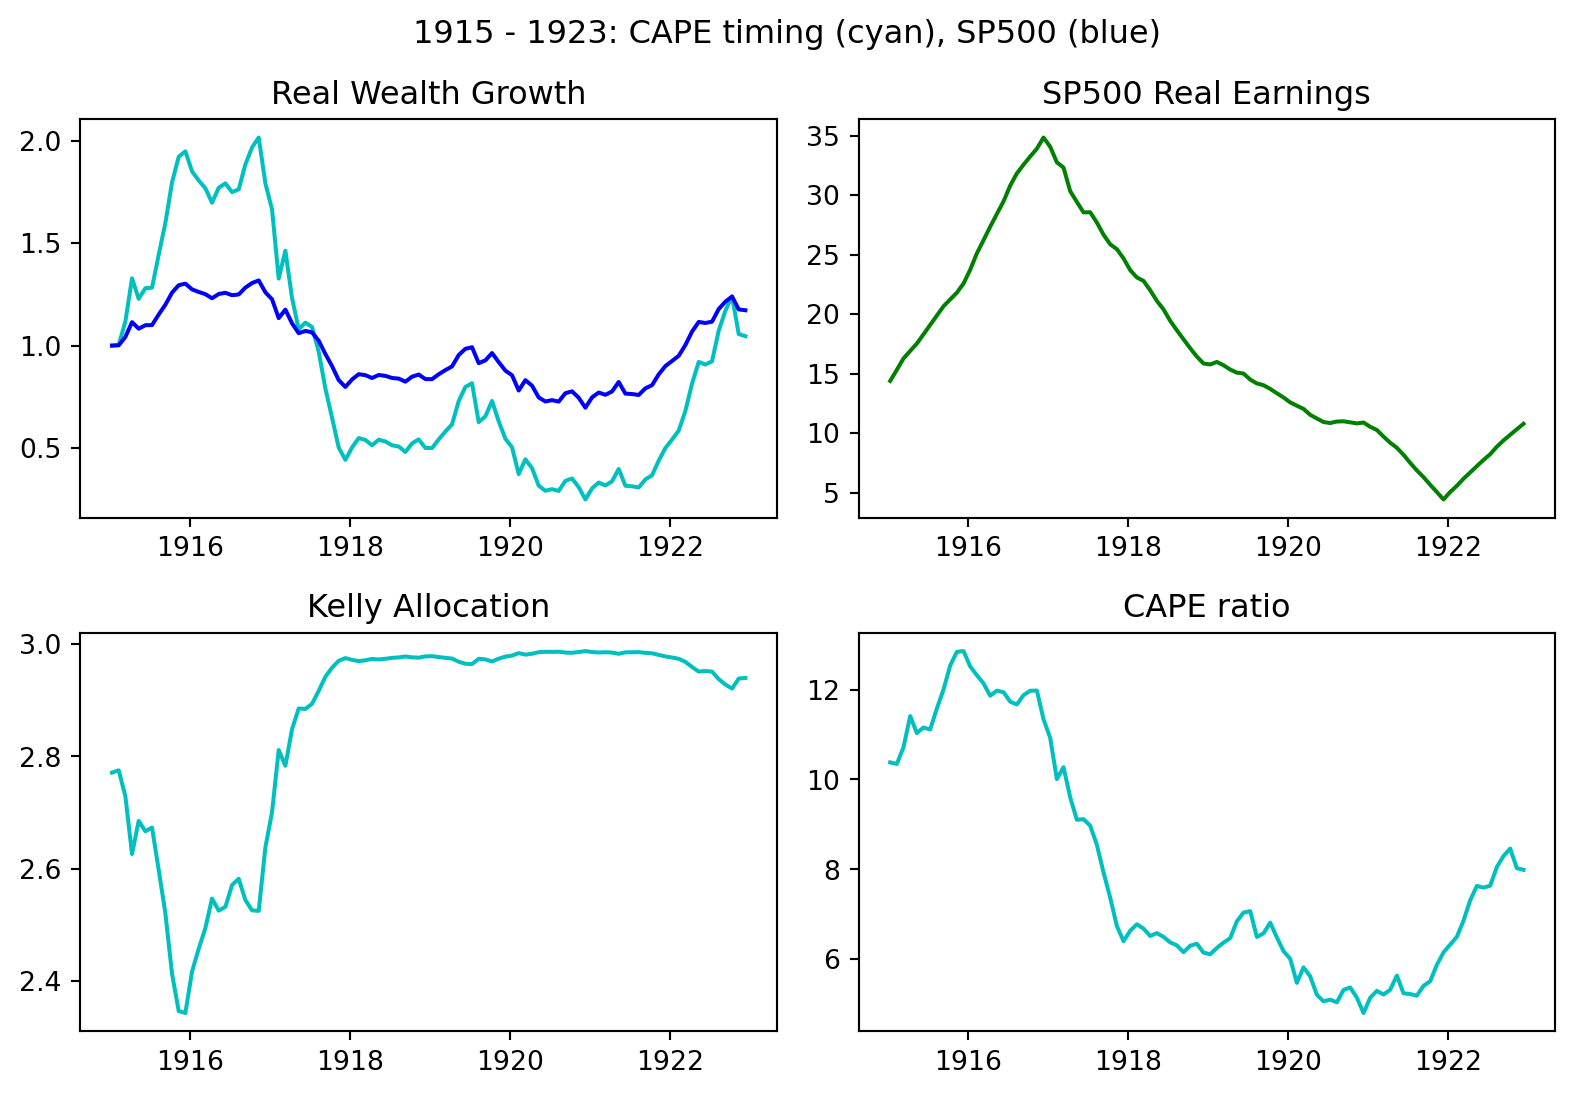
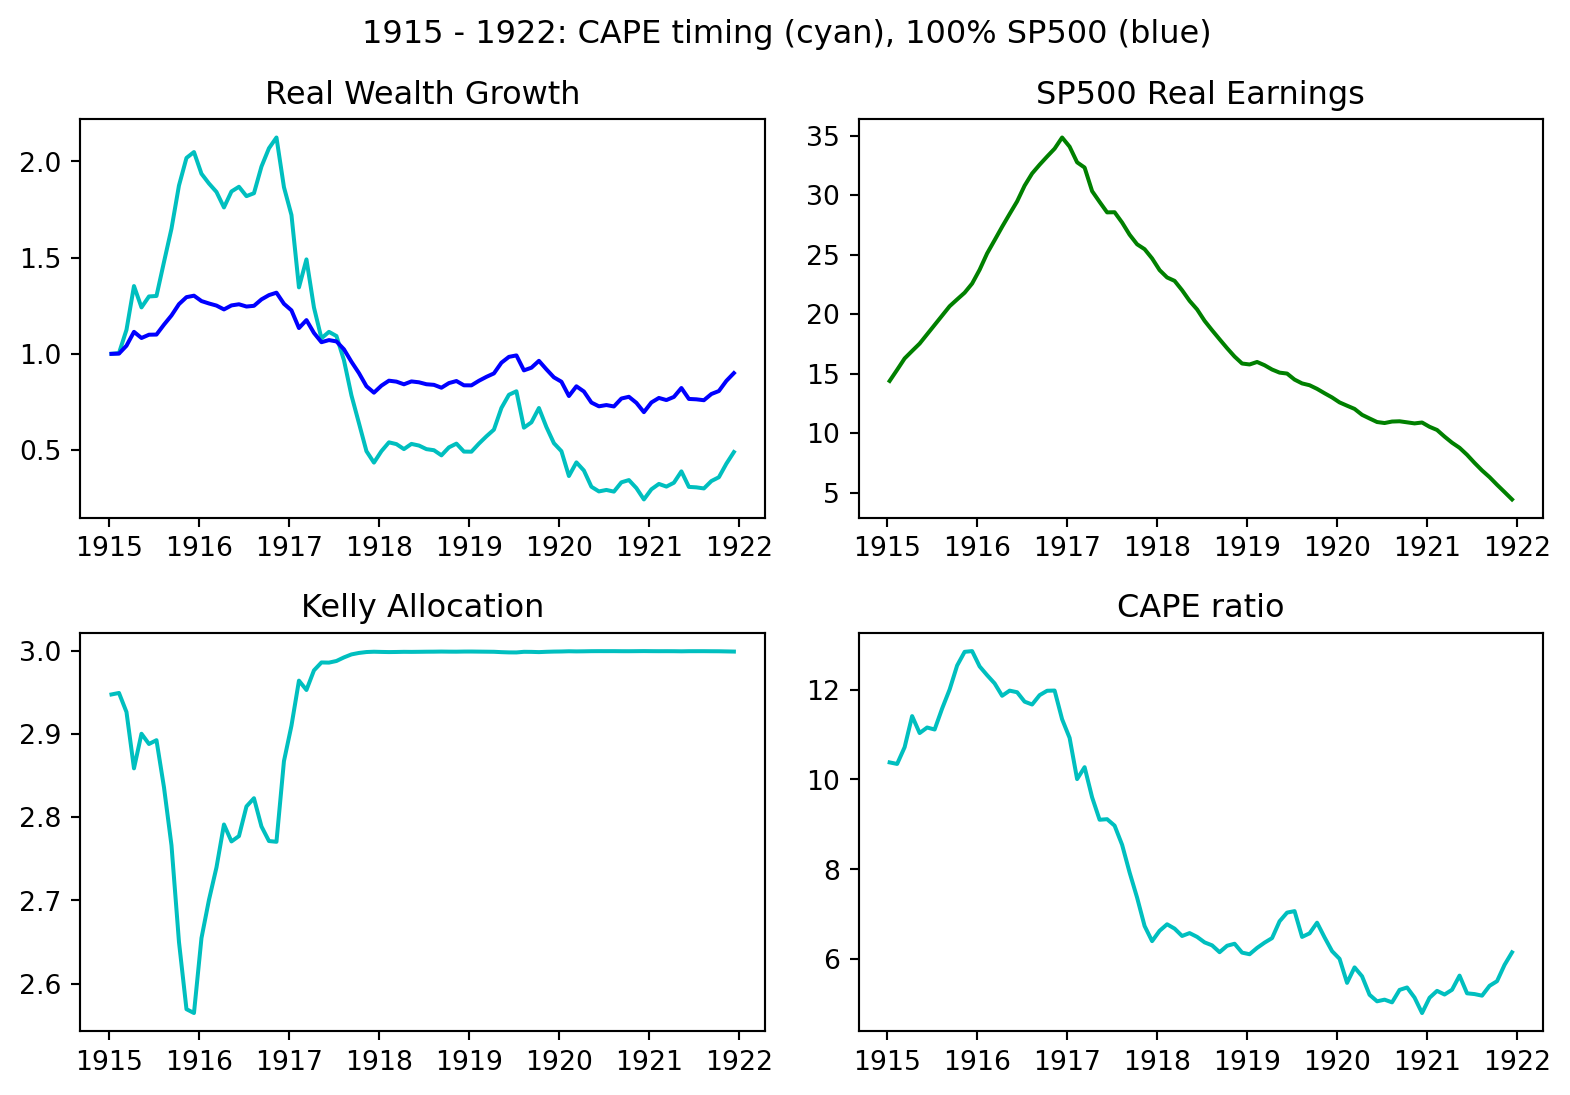
Update website

diff --git a/docs/KellyOptimalMarketCycles.html b/docs/KellyOptimalMarketCycles.html
@@ -174,7 +174,7 @@ pre > code.sourceCode > span > a:first-child::before { text-decoration: underlin
   <ul class="collapse">
   <li><a href="#pe-strategy-superior-vs-cape-not-so-fast" id="toc-pe-strategy-superior-vs-cape-not-so-fast" class="nav-link" data-scroll-target="#pe-strategy-superior-vs-cape-not-so-fast">PE Strategy Superior vs CAPE? Not so fast…</a></li>
   </ul></li>
-  <li><a href="#sec-finalanalysis" id="toc-sec-finalanalysis" class="nav-link" data-scroll-target="#sec-finalanalysis">Final Analysis of Performance</a></li>
+  <li><a href="#sec-finalanalysis" id="toc-sec-finalanalysis" class="nav-link" data-scroll-target="#sec-finalanalysis">Final Analysis of Performance – Periods of Failure</a></li>
   </ul>
 </nav>
     </div>
@@ -445,7 +445,7 @@ dX_t &amp; = \pi_{NN}(t,y_t) X_t \bigg(y_t dt +  \frac{dD_t}{D_t} + \frac{d(1/y_
 <span id="cb3-47"><a href="#cb3-47" aria-hidden="true" tabindex="-1"></a>    plt.show()<span class="op">;</span></span></code><button title="Copy to Clipboard" class="code-copy-button"><i class="bi"></i></button></pre></div>
 </details>
 <div class="cell-output cell-output-display">
-<p><img src="KellyOptimalMarketCycles_files/figure-html/cell-4-output-1.png" width="780" height="516"></p>
+<p><img src="KellyOptimalMarketCycles_files/figure-html/cell-4-output-1.png" width="792" height="516"></p>
 </div>
 </div>
 <p>We see that at higher PE ratios, the Kelly optimal strategy decides to allocate less to the index, while at high PE ratios, the Kelly optimal strategy has a leveraged allocation to the index which is intuitive given the model dynamics which models in mean reversion of PE ratios.</p>
@@ -766,14 +766,14 @@ dX_t &amp; = \pi_t X_t\bigg(y_t dt + \frac{dD_t}{D_t} + \frac{d(1/y_t)}{1/y_t} \
 </details>
 <div class="cell-output cell-output-stdout">
 <pre><code>             Modified Sharpe  Mean Return  Volatility
-PE Timing           0.542872     0.158124    0.291273
-CAPE timing         0.493691     0.149018    0.301844
+PE Timing           0.530488     0.158237    0.298286
+CAPE timing         0.477708     0.147098    0.307924
 SP500               0.547833     0.077775    0.141969</code></pre>
 </div>
 </div>
 <section id="pe-strategy-superior-vs-cape-not-so-fast" class="level2">
 <h2 class="anchored" data-anchor-id="pe-strategy-superior-vs-cape-not-so-fast">PE Strategy Superior vs CAPE? Not so fast…</h2>
-<p>One might look and see that the Kelly strategy that made decisions vs PE outperformed that based on CAPE. This seemed surprising in that PE should be understated and overstated in certain times.</p>
+<p>One might look and see that the Kelly strategy that made decisions using the PE ratio outperformed that based on CAPE. This seemed surprising in that PE should be understated and overstated in certain times.</p>
 <p>What happened? Well, if we look at the data the PE ratio might be “looking into the future”. It actually isn’t because the decision made at time <span class="math inline">\(t\)</span> is based on the realized earnings as of time <span class="math inline">\(t\)</span>. However, the problem is that investors actually don’t know the realized earnings at time <span class="math inline">\(t\)</span> due to the reporting cycle of companies. A hypothetical person with full insider information knows the exact earnings at time <span class="math inline">\(t\)</span>. However, it is uncertain if real investors actually have this information.</p>
 <p>So actually, what if all an investor has is access to the 1 year trailing earnings starting with the realized earnings 3 months ago? Then PE for this investor is estimated from these trailing earnings. Will the PE timing model then outperform that of CAPE?</p>
 <p>Let’s see how it does:</p>
@@ -898,20 +898,21 @@ SP500               0.547833     0.077775    0.141969</code></pre>
 </details>
 <div class="cell-output cell-output-stdout">
 <pre><code>                        Modified Sharpe  Mean Return  Volatility
-PE 1yr trailing Timing         0.542872     0.158124    0.291273
-CAPE timing                    0.493691     0.149018    0.301844
+PE 1yr trailing Timing         0.530488     0.158237    0.298286
+CAPE timing                    0.477708     0.147098    0.307924
 SP500                          0.547833     0.077775    0.141969</code></pre>
 </div>
 </div>
 </section>
 </section>
 <section id="sec-finalanalysis" class="level1">
-<h1>Final Analysis of Performance</h1>
+<h1>Final Analysis of Performance – Periods of Failure</h1>
 <p>Interestingly, we see that this model alone has worse performance than the SP500. The performance of this portfolio was completely due to leverage and the SP500 offered better risk adjusted returns.</p>
 <p>So why did the model fail? Let’s examine a few interesting details:</p>
 <ol type="1">
-<li><p>The model was trained to be optimal on an OU process for earnings yield and a GBM for real earnings. If the true dynamics are not adequately captured by this model, then the Kelly portfolio for this fake model will not perform adequately.</p></li>
-<li><p>The model exhibited outperformance vs the 2x levered SP500 until around 1990 (see plot below). Substantial changes have happened in this period in terms of accounting policies which might make modern CAPEs and PEs seem artificially high compared to their past values, dividend payout policies which can distort data for CAPE and PE, and a rise in corporations which emphasize intangible value and so-called “investing through the balance sheet” meaning that true profitability can be understated. Another part of the change since 1990 has been increased corporate margins causing real earnings growth to exceed its historical average. One might wonder what caused this change– is it lasting or potentially subject to mean reversion?</p></li>
+<li><p>The model was trained to be optimal on an OU process for earnings yield and a GBM for real earnings. If the true dynamics are not adequately captured by this model, then the Kelly portfolio for this fake model will not perform adequately. Moreover, if past parameters differ than those in the future (i.e.&nbsp;if there is a permanently higher valuation demanded by the market for instance), the model is not optimal for this setting.</p></li>
+<li><p>If the data for earnings does not accurately represent the true earnings power of the SP500 (i.e.&nbsp;overstated or understated) then the model may become too optimistic or too pessimistic at the wrong times. This is especially true when valuations look cheap or expensive for a reason! If the optical valuation does not agree with true valuation, then the model will perform poorly as it allocates based on CAPE.</p></li>
+<li><p>The model exhibited outperformance vs the 2x levered SP500 until around 1990 (see plot below). Substantial changes have happened in this period including: new accounting policies which might make modern CAPEs and PEs seem artificially high compared to their past values, dividend payout policies which can distort data for CAPE and PE, and a rise in corporations which emphasize intangible value and so-called “investing through the balance sheet” meaning that true profitability can be understated. Another part of the change since 1990 has been increased corporate margins causing real earnings growth to exceed its historical average. One might wonder what caused this change– is it lasting or potentially subject to mean reversion?</p></li>
 </ol>
 <div class="cell" data-execution_count="13">
 <details>
@@ -923,9 +924,9 @@ SP500                          0.547833     0.077775    0.141969</code></pre>
 <span id="cb15-5"><a href="#cb15-5" aria-hidden="true" tabindex="-1"></a></span>
 <span id="cb15-6"><a href="#cb15-6" aria-hidden="true" tabindex="-1"></a>    </span>
 <span id="cb15-7"><a href="#cb15-7" aria-hidden="true" tabindex="-1"></a>    startyear <span class="op">=</span> <span class="dv">1990</span></span>
-<span id="cb15-8"><a href="#cb15-8" aria-hidden="true" tabindex="-1"></a>    endyear <span class="op">=</span> <span class="dv">2020</span></span>
+<span id="cb15-8"><a href="#cb15-8" aria-hidden="true" tabindex="-1"></a>    endyear <span class="op">=</span> <span class="dv">2021</span></span>
 <span id="cb15-9"><a href="#cb15-9" aria-hidden="true" tabindex="-1"></a>    index_start <span class="op">=</span> <span class="bu">int</span>((startyear<span class="op">-</span><span class="dv">1871</span>)<span class="op">/</span>dt)</span>
-<span id="cb15-10"><a href="#cb15-10" aria-hidden="true" tabindex="-1"></a>    index_end <span class="op">=</span> <span class="bu">int</span>((endyear<span class="op">-</span><span class="dv">1871</span>)<span class="op">/</span>dt)</span>
+<span id="cb15-10"><a href="#cb15-10" aria-hidden="true" tabindex="-1"></a>    index_end <span class="op">=</span> <span class="bu">int</span>((endyear<span class="op">-</span><span class="dv">1871</span>)<span class="op">/</span>dt)<span class="op">-</span><span class="dv">1</span></span>
 <span id="cb15-11"><a href="#cb15-11" aria-hidden="true" tabindex="-1"></a>    ax[<span class="dv">0</span>,<span class="dv">0</span>].set_title(<span class="st">'Real Wealth Growth'</span>)</span>
 <span id="cb15-12"><a href="#cb15-12" aria-hidden="true" tabindex="-1"></a>    ax[<span class="dv">0</span>,<span class="dv">0</span>].plot(</span>
 <span id="cb15-13"><a href="#cb15-13" aria-hidden="true" tabindex="-1"></a>                 t[index_start:index_end],X_PE10_plt[index_start:index_end]<span class="op">/</span>X_PE10_plt[index_start],<span class="st">'c'</span>)<span class="op">;</span></span>
@@ -947,11 +948,11 @@ SP500                          0.547833     0.077775    0.141969</code></pre>
 <span id="cb15-29"><a href="#cb15-29" aria-hidden="true" tabindex="-1"></a>    </span>
 <span id="cb15-30"><a href="#cb15-30" aria-hidden="true" tabindex="-1"></a>    plt.subplots_adjust(hspace<span class="op">=</span><span class="fl">0.7</span>, wspace<span class="op">=</span><span class="fl">0.15</span>)<span class="op">;</span></span>
 <span id="cb15-31"><a href="#cb15-31" aria-hidden="true" tabindex="-1"></a>    plt.tight_layout()<span class="op">;</span></span>
-<span id="cb15-32"><a href="#cb15-32" aria-hidden="true" tabindex="-1"></a>    fig.suptitle(<span class="st">'1990 - 2020: CAPE timing (cyan), SP500 (blue)'</span>,y<span class="op">=</span><span class="fl">1.03</span>)</span>
+<span id="cb15-32"><a href="#cb15-32" aria-hidden="true" tabindex="-1"></a>    fig.suptitle(<span class="st">'1990 - 2021: CAPE timing (cyan), 100% SP500 (blue)'</span>,y<span class="op">=</span><span class="fl">1.03</span>)</span>
 <span id="cb15-33"><a href="#cb15-33" aria-hidden="true" tabindex="-1"></a>    plt.show()<span class="op">;</span></span></code><button title="Copy to Clipboard" class="code-copy-button"><i class="bi"></i></button></pre></div>
 </details>
 <div class="cell-output cell-output-display">
-<p><img src="KellyOptimalMarketCycles_files/figure-html/cell-14-output-1.png" width="785" height="548"></p>
+<p><img src="KellyOptimalMarketCycles_files/figure-html/cell-14-output-1.png" width="791" height="548"></p>
 </div>
 </div>
 <ol start="4" type="1">
@@ -967,7 +968,7 @@ SP500                          0.547833     0.077775    0.141969</code></pre>
 <span id="cb16-5"><a href="#cb16-5" aria-hidden="true" tabindex="-1"></a></span>
 <span id="cb16-6"><a href="#cb16-6" aria-hidden="true" tabindex="-1"></a>    </span>
 <span id="cb16-7"><a href="#cb16-7" aria-hidden="true" tabindex="-1"></a>    startyear <span class="op">=</span> <span class="dv">1915</span></span>
-<span id="cb16-8"><a href="#cb16-8" aria-hidden="true" tabindex="-1"></a>    endyear <span class="op">=</span> <span class="dv">1923</span></span>
+<span id="cb16-8"><a href="#cb16-8" aria-hidden="true" tabindex="-1"></a>    endyear <span class="op">=</span> <span class="dv">1922</span></span>
 <span id="cb16-9"><a href="#cb16-9" aria-hidden="true" tabindex="-1"></a>    index_start <span class="op">=</span> <span class="bu">int</span>((startyear<span class="op">-</span><span class="dv">1871</span>)<span class="op">/</span>dt)</span>
 <span id="cb16-10"><a href="#cb16-10" aria-hidden="true" tabindex="-1"></a>    index_end <span class="op">=</span> <span class="bu">int</span>((endyear<span class="op">-</span><span class="dv">1871</span>)<span class="op">/</span>dt)</span>
 <span id="cb16-11"><a href="#cb16-11" aria-hidden="true" tabindex="-1"></a>    ax[<span class="dv">0</span>,<span class="dv">0</span>].set_title(<span class="st">'Real Wealth Growth'</span>)</span>
@@ -991,11 +992,11 @@ SP500                          0.547833     0.077775    0.141969</code></pre>
 <span id="cb16-29"><a href="#cb16-29" aria-hidden="true" tabindex="-1"></a>    </span>
 <span id="cb16-30"><a href="#cb16-30" aria-hidden="true" tabindex="-1"></a>    plt.subplots_adjust(hspace<span class="op">=</span><span class="fl">0.7</span>, wspace<span class="op">=</span><span class="fl">0.15</span>)<span class="op">;</span></span>
 <span id="cb16-31"><a href="#cb16-31" aria-hidden="true" tabindex="-1"></a>    plt.tight_layout()<span class="op">;</span></span>
-<span id="cb16-32"><a href="#cb16-32" aria-hidden="true" tabindex="-1"></a>    fig.suptitle(<span class="st">'1915 - 1923: CAPE timing (cyan), SP500 (blue)'</span>,y<span class="op">=</span><span class="fl">1.03</span>)</span>
+<span id="cb16-32"><a href="#cb16-32" aria-hidden="true" tabindex="-1"></a>    fig.suptitle(<span class="st">'1915 - 1922: CAPE timing (cyan), 100% SP500 (blue)'</span>,y<span class="op">=</span><span class="fl">1.03</span>)</span>
 <span id="cb16-33"><a href="#cb16-33" aria-hidden="true" tabindex="-1"></a>    plt.show()<span class="op">;</span></span></code><button title="Copy to Clipboard" class="code-copy-button"><i class="bi"></i></button></pre></div>
 </details>
 <div class="cell-output cell-output-display">
-<p><img src="KellyOptimalMarketCycles_files/figure-html/cell-15-output-1.png" width="787" height="548"></p>
+<p><img src="KellyOptimalMarketCycles_files/figure-html/cell-15-output-1.png" width="785" height="548"></p>
 </div>
 </div>
 <ol start="4" type="1">
@@ -1010,8 +1011,8 @@ SP500                          0.547833     0.077775    0.141969</code></pre>
 <span id="cb17-4"><a href="#cb17-4" aria-hidden="true" tabindex="-1"></a>    t <span class="op">=</span> np.linspace(<span class="dv">2021</span><span class="op">-</span>T,<span class="dv">2021</span>,N_steps)</span>
 <span id="cb17-5"><a href="#cb17-5" aria-hidden="true" tabindex="-1"></a></span>
 <span id="cb17-6"><a href="#cb17-6" aria-hidden="true" tabindex="-1"></a>    </span>
-<span id="cb17-7"><a href="#cb17-7" aria-hidden="true" tabindex="-1"></a>    startyear <span class="op">=</span> <span class="dv">1925</span></span>
-<span id="cb17-8"><a href="#cb17-8" aria-hidden="true" tabindex="-1"></a>    endyear <span class="op">=</span> <span class="dv">1935</span></span>
+<span id="cb17-7"><a href="#cb17-7" aria-hidden="true" tabindex="-1"></a>    startyear <span class="op">=</span> <span class="dv">1928</span></span>
+<span id="cb17-8"><a href="#cb17-8" aria-hidden="true" tabindex="-1"></a>    endyear <span class="op">=</span> <span class="dv">1934</span></span>
 <span id="cb17-9"><a href="#cb17-9" aria-hidden="true" tabindex="-1"></a>    index_start <span class="op">=</span> <span class="bu">int</span>((startyear<span class="op">-</span><span class="dv">1871</span>)<span class="op">/</span>dt)</span>
 <span id="cb17-10"><a href="#cb17-10" aria-hidden="true" tabindex="-1"></a>    index_end <span class="op">=</span> <span class="bu">int</span>((endyear<span class="op">-</span><span class="dv">1871</span>)<span class="op">/</span>dt)</span>
 <span id="cb17-11"><a href="#cb17-11" aria-hidden="true" tabindex="-1"></a>    ax[<span class="dv">0</span>,<span class="dv">0</span>].set_title(<span class="st">'Real Wealth Growth'</span>)</span>
@@ -1034,13 +1035,16 @@ SP500                          0.547833     0.077775    0.141969</code></pre>
 <span id="cb17-28"><a href="#cb17-28" aria-hidden="true" tabindex="-1"></a>    </span>
 <span id="cb17-29"><a href="#cb17-29" aria-hidden="true" tabindex="-1"></a>    plt.subplots_adjust(hspace<span class="op">=</span><span class="fl">0.7</span>, wspace<span class="op">=</span><span class="fl">0.15</span>)<span class="op">;</span></span>
 <span id="cb17-30"><a href="#cb17-30" aria-hidden="true" tabindex="-1"></a>    plt.tight_layout()<span class="op">;</span></span>
-<span id="cb17-31"><a href="#cb17-31" aria-hidden="true" tabindex="-1"></a>    fig.suptitle(<span class="st">'1925 - 1935 by strat: CAPE timing (cyan), SP500 (blue)'</span>,y<span class="op">=</span><span class="fl">1.03</span>)</span>
+<span id="cb17-31"><a href="#cb17-31" aria-hidden="true" tabindex="-1"></a>    fig.suptitle(<span class="st">'1928 - 1934: CAPE timing (cyan), 100% SP500 (blue)'</span>,y<span class="op">=</span><span class="fl">1.03</span>)</span>
 <span id="cb17-32"><a href="#cb17-32" aria-hidden="true" tabindex="-1"></a>    plt.show()<span class="op">;</span></span></code><button title="Copy to Clipboard" class="code-copy-button"><i class="bi"></i></button></pre></div>
 </details>
 <div class="cell-output cell-output-display">
-<p><img src="KellyOptimalMarketCycles_files/figure-html/cell-16-output-1.png" width="800" height="548"></p>
+<p><img src="KellyOptimalMarketCycles_files/figure-html/cell-16-output-1.png" width="785" height="548"></p>
 </div>
 </div>
+<p>The above chart shows another period of failure with the CAPE based model. The surprising thing about this period is that it would be one where you would think the model should exceed. The market top in 1929 was a period of CAPE ratio significantly above its historical mean.</p>
+<p>One would think it was good that the CAPE based timing model only had around 25% allocation to equities during 1929-1930. This was indeed good, for those brief moments.</p>
+<p>However, 1931-1932, the valuation started to look really attractive to the CAPE model and it over-leveraged into the last part of the crash. Despite remaining mostly out of the market during the first part of the crash, it’s high degree of leverage throughout the second portion actually caused it to underperform the SP500 during this entire 1928 - 1934 time period!</p>
 
 
 </section>

diff --git a/docs/logoptimal3.html b/docs/logoptimal3.html
@@ -202,7 +202,7 @@ ul.task-list li input[type="checkbox"] {
 <p>This gives</p>
 <p><span class="math display">\[ (V^{\pi_\gamma}_T)^\gamma = \exp \left[ \int_0^T \gamma \left(  \pi_t^T \mu_t -   \frac{1}{2} \pi_t^T \sigma_t \sigma_t^T \pi_t \right) dt + \int_0^T \gamma \pi_t^T \sigma_t d\vec{W}_t \right] .\]</span></p>
 <p>So</p>
-<p><span class="math display">\[\mathbb{E}[U(V^{\pi_\gamma}_T)] = \mathbb{E}[\gamma (V^{\pi_\gamma}_T)^\gamma] = \gamma \mathbb{E} \exp \left[ \int_0^T  \left(  \gamma \pi_t^T \mu_t -   (\frac{1}{2}\gamma - \frac{1}{2}\gamma^2)  \pi_t^T \sigma_t \sigma_t^T \pi_t \right) dt \right].\]</span></p>
+<p><span class="math display">\[\mathbb{E}[U(V^{\pi_\gamma}_T)] = \mathbb{E}[\gamma (V^{\pi_\gamma}_T)^\gamma] = \gamma \mathbb{E} \left[ \exp \left( \int_0^T  \left(  \gamma \pi_t^T \mu_t -   (\frac{1}{2}\gamma - \frac{1}{2}\gamma^2)  \pi_t^T \sigma_t \sigma_t^T \pi_t \right) dt \right) \right].\]</span></p>
 <p>So if <span class="math inline">\(Ker(\sigma_t\sigma_t^T) = \varnothing\)</span> then, we can optimize the integrand pointwise and the optimal portfolio occurs at <span class="math display">\[ \pi_t = \frac{1}{1-\gamma}(\sigma_t \sigma_t^T)^{-1} \mu_t\]</span>. To see why optimizing the integrand pointwise holds, note that:</p>
 <p><span class="math display">\[f(\pi_t(\omega) , \omega, t) =  \gamma \pi_t(\omega)^T \mu_t(\omega) -   (\frac{1}{2}\gamma - \frac{1}{2}\gamma^2)  \pi_t(\omega)^T \sigma_t(\omega) \sigma_t^T(\omega) \pi_t(\omega).\]</span></p>
 <p>Note that <span class="math inline">\(\gamma &lt; 1\)</span> and <span class="math inline">\(\sigma \sigma^T\)</span> is uniformly strictly positive definite by assumption, so by quadratic optimization, we have that <span class="math inline">\(\pi^*_t(\omega) = \frac{1}{1-\gamma}(\sigma_t \sigma_t^T)^{-1} \mu_t\)</span> is such that:</p>
